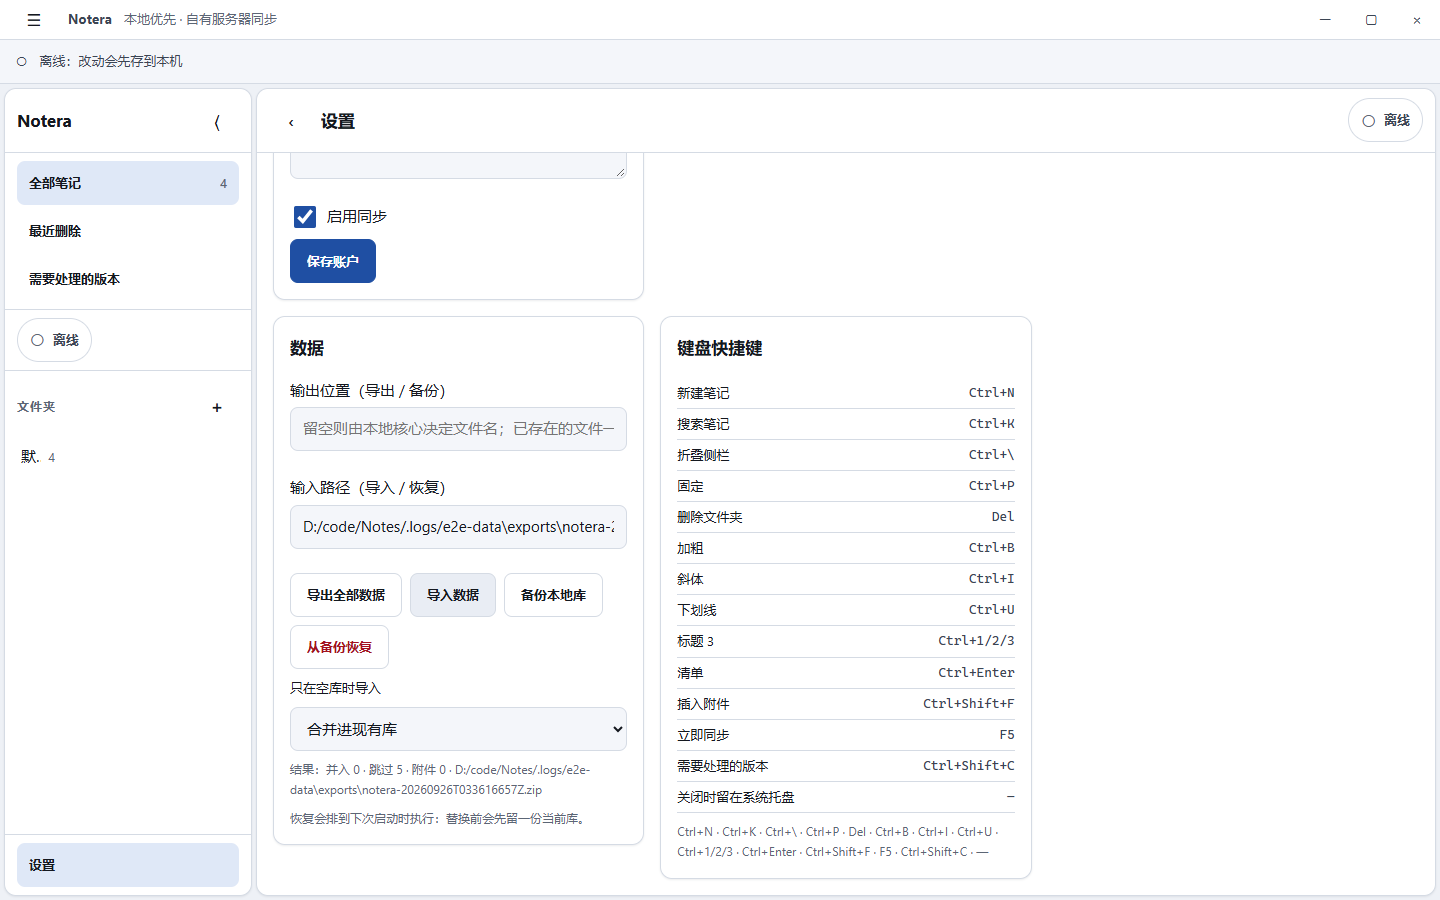
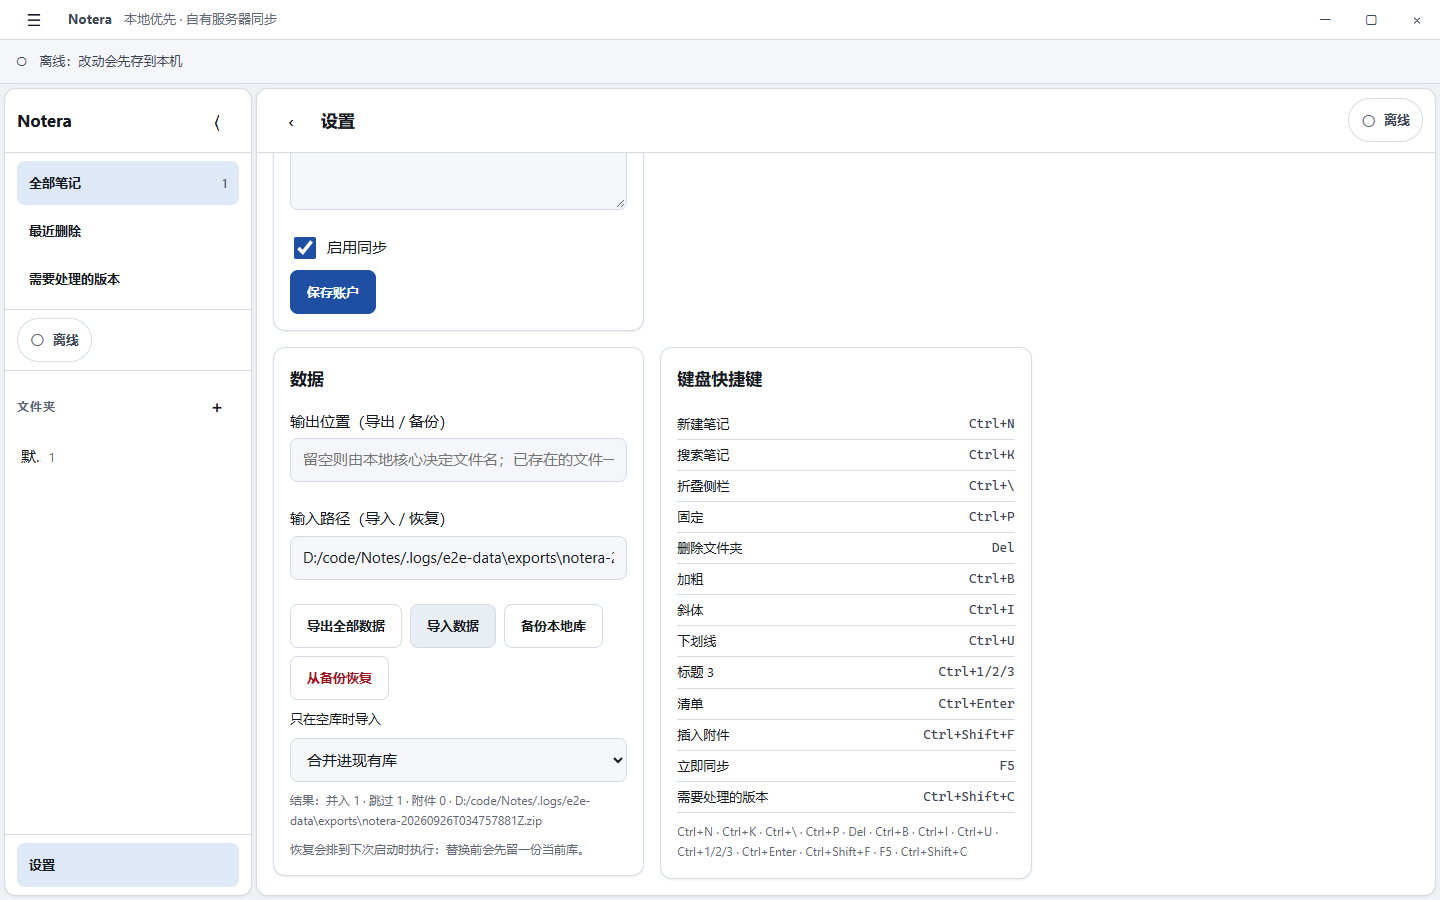
fix(host): 平台能力改报"壳里真的做了什么"，不再报"原则上能做到什么"
Windows 分支曾经 tray / global_shortcuts / native_menu / notifications 全报 true、
keychain 报 credential_manager，而 src-tauri 里除了一个从没被调用过的通知插件
初始化，托盘、菜单、快捷键、钥匙串一行代码都没有。

后果不是"少了个功能"，而是界面在骗人：设置页摆出"关闭窗口时留在系统托盘"，
用户勾上、偏好存进库、没有任何代码读它；同时暗示"口令已经进钥匙串了"——
在一个把数据安全排在第一位的应用里，这类暗示比缺功能更贵。

现在按 as-built 报 false / none，UI 立刻改口"此平台不可用"。
要翻回 true 需要各自真的接上（tray-icon 特性 / Menu::with_items /
global-shortcut 插件 / credential_ref 落地），这些都会动依赖图，
按 ARCHITECTURE-MAP §9 走评审，不在修别的问题时"顺便"加。

前端 localCaps 的兜底值同样改口：它在宿主不可达时顶上，之前也是 aspirational。
caps 实测：platform_caps 现在返回全 false + keychain:none。
Rust 407、前端 121、verify-app 28/28 全绿。

diff --git a/apps/desktop/src/platform/caps.ts b/apps/desktop/src/platform/caps.ts
@@ -47,11 +47,12 @@ function isTransparentOk(os: OsKind): boolean {
 export function localCaps(): PlatformCaps {
   const os = inferOs();
   const mobile = os === 'ios' || os === 'android';
-  const keychain: PlatformCaps['keychain'] =
-    os === 'windows' ? 'credentialManager' : os === 'macos' || os === 'ios' ? 'keychain' : os === 'android' ? 'keystore' : 'none';
+  // 兜底值也必须只说"壳里真的做了的事"：这里曾经报 tray/globalShortcuts/keychain 为可用，
+  // 而桌面壳一行托盘或钥匙串代码都没有 —— 于是设置页摆出一个存了没人读的开关。
+  const keychain: PlatformCaps['keychain'] = 'none';
   return {
-    tray: !mobile && (os === 'windows' || os === 'macos' || os === 'other'),
-    globalShortcuts: !mobile,
+    tray: false,
+    globalShortcuts: false,
     bgTask: mobile ? (os === 'ios' ? 'bgAppRefresh' : 'workManager') : 'desktopTimer',
     shareSheet: os === 'ios' || os === 'android',
     keychain,

diff --git a/crates/notera-host/src/lib.rs b/crates/notera-host/src/lib.rs
@@ -75,16 +75,27 @@ pub struct PlatformCaps {
 }
 
 impl PlatformCaps {
+    /// **按已实现的能力**回答，不是按"这个平台原则上能做到什么"。
+    ///
+    /// PLATFORM.md §3 那张表是目标态；本结构体是 as-built，UI 拿它决定要不要把开关
+    /// 摆出来。之前这里对 Windows 报 `tray/global_shortcuts/native_menu = true`，
+    /// 于是设置页摆出"关闭窗口时留在系统托盘"，而壳里一行托盘代码都没有 ——
+    /// 用户勾完得到一个存了却没人读的偏好，比看不到这个选项更糟。
+    ///
+    /// 要翻回 true，需要各自真的接上：托盘要 `tauri` 的 `tray-icon` 特性 +
+    /// 关窗行为读这个偏好；全局快捷键要 `tauri-plugin-global-shortcut`；
+    /// 原生菜单要 `Menu::with_items`；钥匙串要 `credential_ref` 落地（Phase 5）。
+    /// 这些都会动依赖图，按 §9 走评审，不在这里"顺便"加。
     pub fn for_current_target() -> Self {
         if cfg!(target_os = "windows") {
             Self {
-                tray: true,
-                global_shortcuts: true,
-                native_menu: true,
-                notifications: true,
+                tray: false,
+                global_shortcuts: false,
+                native_menu: false,
+                notifications: false,
                 share_sheet: false,
                 background_task: "desktop_timer".into(),
-                keychain: "credential_manager".into(),
+                keychain: "none".into(),
                 file_picker: "native".into(),
                 safe_area: false,
             }
@@ -96,7 +107,7 @@ impl PlatformCaps {
                 notifications: true,
                 share_sheet: true,
                 background_task: "desktop_timer".into(),
-                keychain: "keychain".into(),
+                keychain: "none".into(),
                 file_picker: "native".into(),
                 safe_area: false,
             }
@@ -108,7 +119,7 @@ impl PlatformCaps {
                 notifications: true,
                 share_sheet: true,
                 background_task: "workmanager".into(),
-                keychain: "keystore".into(),
+                keychain: "none".into(),
                 file_picker: "saf".into(),
                 safe_area: true,
             }
@@ -120,7 +131,7 @@ impl PlatformCaps {
                 notifications: true,
                 share_sheet: true,
                 background_task: "bgapprefresh".into(),
-                keychain: "keychain".into(),
+                keychain: "none".into(),
                 file_picker: "document_picker".into(),
                 safe_area: true,
             }

diff --git a/CHANGELOG.md b/CHANGELOG.md
@@ -8,11 +8,11 @@
 
 | 门禁 | 结果 |
 |---|---|
-| `cargo test --workspace` | 382 通过 / 0 失败 / 0 ignored |
-| 前端 | 86 通过（9 文件）；`vue-tsc --noEmit` 无错误；构建 189 KB → gzip 65 KB |
+| `cargo test --workspace` | 407 通过 / 0 失败 / 0 ignored（47 个测试二进制） |
+| 前端 | 121 通过（12 文件）；`vue-tsc --noEmit` 无错误；构建 199 KB → gzip 68 KB |
 | `scripts/arch-check.mjs` | 18/18 |
 | `scripts/verify-diagram.mjs` | 59/59，交互后无运行时错误 |
-| `scripts/verify-app.mjs`（浏览器端到端，真 Rust 核心） | 16/16 |
+| `scripts/verify-app.mjs`（浏览器端到端，真 Rust 核心） | 28/28 |
 | `scripts/verify-tauri-window.mjs`（真窗口，走真 `invoke`） | 8/8，控制台 0 error |
 
 复现命令见 `docs/ARCHITECTURE-MAP.md` §8。
@@ -28,6 +28,20 @@
 - **导入器** `notera-importer`：Markdown/纯文本 → 富文本，无损优先（不认识的标记按字面保留）、三道入口闸门、按内容哈希幂等；64 个测试
 - **诊断入口** `notera-cli`：`serve`（dev 桥，落真实 Store）、`verify`、`conflicts`、`sync-once`、`net-probe`、`export`；退出码 0=PASS / 1=ASSERT_FAIL / 2=BLOCKED
 - **ADR-0018**：单一活跃同步账户约束（多服务器推迟到"按账户确认点"）
+- **备份 / 恢复**（DATA-MODEL §15）：`VACUUM INTO` 一致快照 + `sha256`/`integrity_check`/`user_version` 三道闸门 + 替换前留一份当前库 + 下次启动落地（不在进程内换库）。零新依赖
+- **导出 / 导入**：自描述 ZIP（`manifest.json` + `folders.json` + `notes/<id>.json` + `tombstones.json` + `attachments/<sha>`）。记录由**与上传同一套**信封构造函数产出，导入因此直接喂 `apply_remote` —— 没有第二条写入路径，"防复活"就没有第二个会漏的地方
+- **编辑器原生感**（对齐 AppFlowy）：Markdown 输入缩写、`/` 命令面板、块把手（拖拽重排 + 下方插入 + Alt+↑↓）、选中文字浮出小工具条
+- **ADR-0019**：Joplin 同步与 AppFlowy 编辑交互的逐条采纳/拒绝及其理由
+
+### 修掉的静默错误（都是"看着在用、其实没接线"）
+
+- **动态拼出来的文案键把键名直接印到界面上**：`MessageKey` 只是 `string` 别名，`t()` 查不到就原样返回 —— 工具条上写着 `editor.blockCodeBlock`，设置页写着 `settings.rootPrefix`。改成查表，并加两层门禁（扫源码的键登记测试 + 端到端看渲染文本）
+- **两条自动保存并发出发，自己造出一条假"在别处被改动了"**：`save()` 无互斥，防抖那一发和 blur 的 flush 带着同一个 `expectedRev` 同时上路，先回来的把 rev 推进、后回来的被核心判成 stale_edit。核心没错，错在前端让自己的两个保存互相打架
+- **校验备份这一步破坏了被校验的备份**：`pool::open_readonly_conn` 其实不是只读，会跑 `PRAGMA journal_mode=WAL` —— 把待校验的文件就地改写并留下 `-wal` 边车，于是 sha256 永远对不上、恢复必然失败
+- **导出会正好盖掉刚才的备份**：备份产物被回填进唯一那个路径框，下一次"导出"就写在那份 `.sqlite` 上。现在输出/输入两个框分开，且导出遇已存在文件一律不覆盖
+- **`caps` 报的是"这个平台原则上能做到什么"而不是"壳里做了什么"**：Windows 下 `tray/global_shortcuts/native_menu/notifications` 全报 true、`keychain` 报 `credential_manager`，而壳里一行相关代码都没有 —— 设置页因此摆出"关闭窗口时留在系统托盘"这种存了没人读的开关，并让用户误信口令已进钥匙串。现按 as-built 报 false/none
+- **端到端门禁漏掉整类 4xx**：只盯 `requestfailed`，而本地桥把业务拒绝映射成 HTTP 400 → 真错误（上面那条 stale_edit）被当成功放过
+- `WorkspaceView` 不跟随 `selectedId` 打开编辑器（选中了却一片空白）、`create()` 不打开新笔记、冲突动词表三处不一致、`create_note` 拒绝 `folderId: null`、`/favicon.ico` 404
 - **架构适应度检查** `scripts/arch-check.mjs`：18 条机器可判定的层次约束（依赖边、唯一出口、SQL 只出现在 store、前端无协议词汇、端口边越界引用…）
 - **端到端等价** `scripts/verify-app.mjs`：Playwright 驱动同一份前端 + 同一份 Rust 核心的 14 步 UAT
 

diff --git a/docs/ARCHITECTURE-MAP.md b/docs/ARCHITECTURE-MAP.md
@@ -198,7 +198,8 @@ L0 UI/平台  →  L1 host/cli  →  L2 领域服务  →  L3 基础设施  → 
 
 | 项 | 状态 | 缺什么 |
 |---|---|---|
-| OS 钥匙串接入（`credential_ref`） | 未实现 | Phase 5 平台工作；当前只有 debug 构建下的 `NOTERA_DEV_WEBDAV_USER/SECRET`，release 一律进 `needs_credentials` |
+| OS 钥匙串接入（`credential_ref`） | 未实现 | Phase 5 平台工作；当前只有 debug 构建下的 `NOTERA_DEV_WEBDAV_USER/SECRET`，release 一律进 `needs_credentials`。`caps.keychain` 已改口为 `none`（此前对 Windows 报 `credential_manager`，是要用户误信"口令进钥匙串了"） |
+| 托盘 / 原生菜单 / 全局快捷键 / 通知 | 未实现 | 壳里一行相关代码都没有，但 `caps` 曾对 Windows 全报 true → 设置页摆出"关闭窗口时留在系统托盘"这种存了没人读的开关。现已按 as-built 报 false，UI 显示"此平台不可用"。**要恢复需评审**：分别需要 `tauri` 的 `tray-icon` 特性、`Menu::with_items`、`tauri-plugin-global-shortcut`、通知插件的实际调用 —— 都会动依赖图，按 §9 走，不"顺便"加 |
 | 协议 §5 能力探测、§11.3 租约 | 未接入 | `RemotePort` 这 7 个方法表达不了它们；需要扩端口或加 host 侧编排 |
 | 多服务器同时启用 | 按 ADR-0018 拒绝 | 确认点 `sync_rev` 是全局列，需要迁到按账户表 |
 | 备份 / 恢复（§15） | 已实现 | `VACUUM INTO` 一致快照 + sha256/integrity_check 闸门 + 替换前留当前库 + 下次启动落地；恢复不在进程内换库（见 DATA-MODEL §15） |
